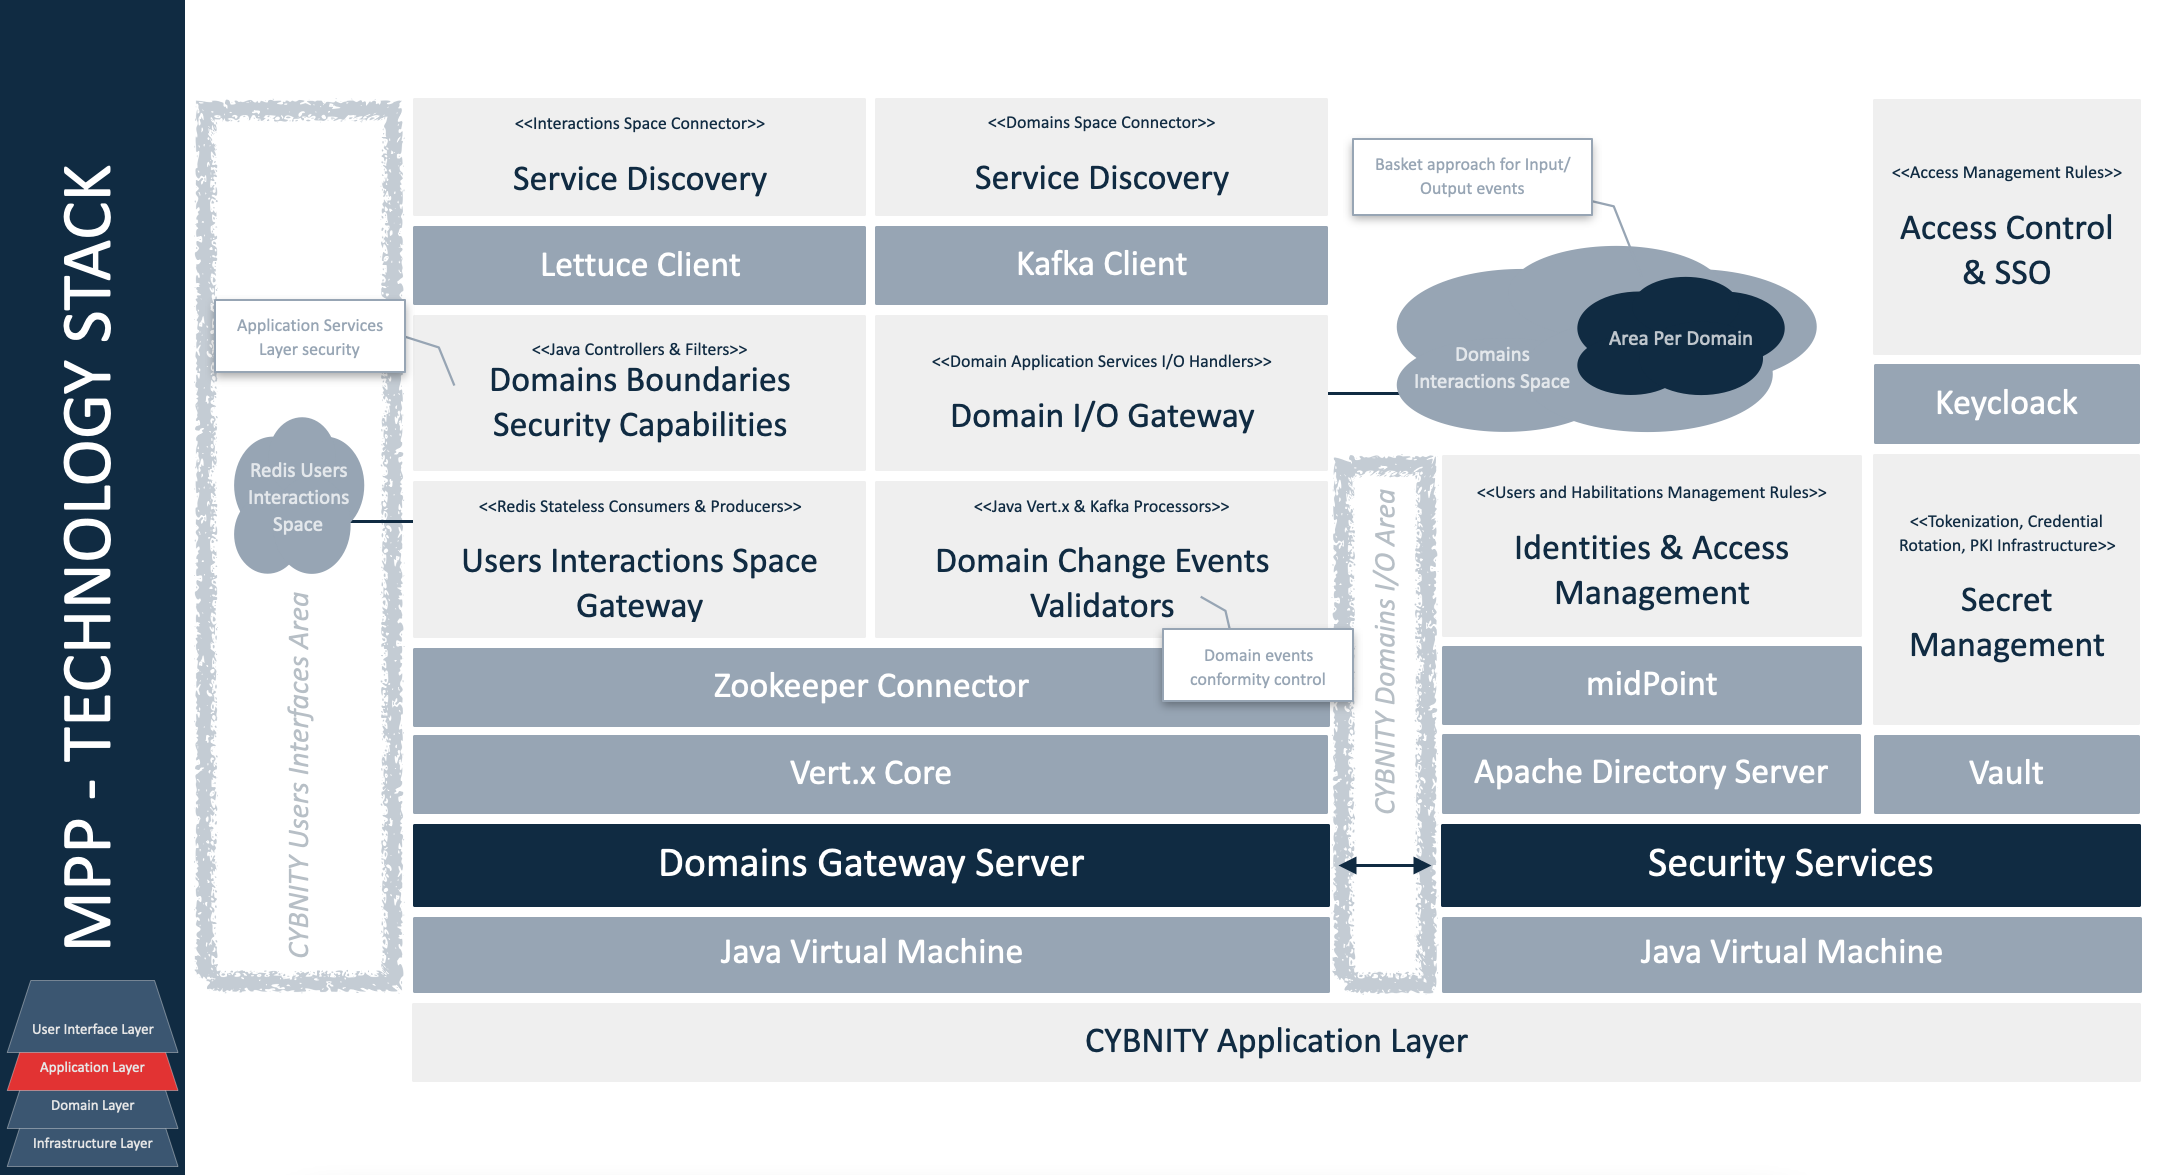
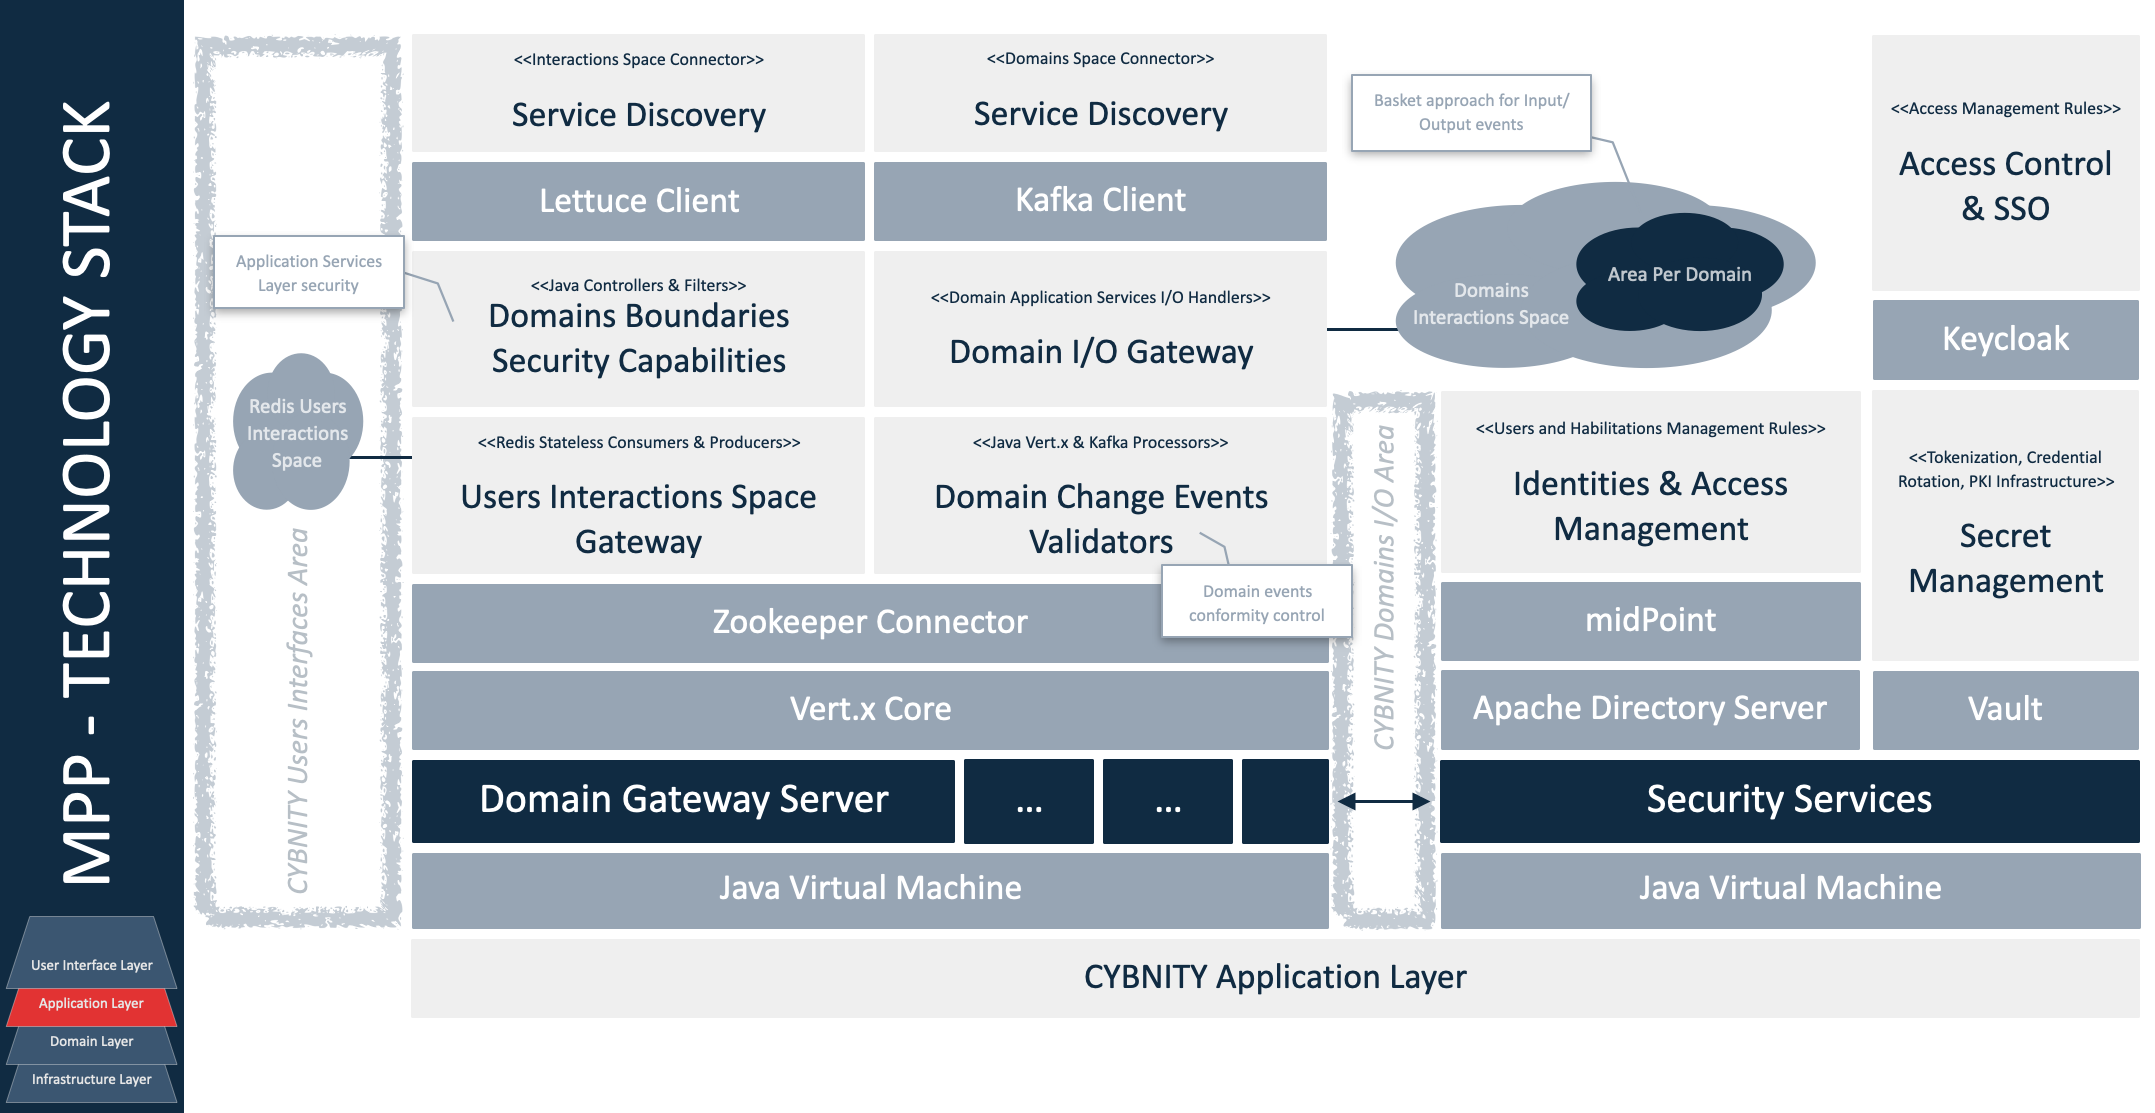
update of UI layer documentation

diff --git a/implementations-line/README.md b/implementations-line/README.md
@@ -39,7 +39,6 @@ The implementation source codes realizes interactive functions provided by **UI 
 Some shared deployable modules (e. endpoints) are also implemented at the UI layer level:
 - [Web Reactive Frontend server](cockpit-foundations/web-reactive-frontend) (ReactJS / Node.js web app)
 - [Reactive Messaging Gateway](cockpit-foundations/reactive-messaging-gateway) (Vert.x Reactive Backend server)
-- Domains Gateway server
 
 ![image](mpp-ui-technology-stack.png)
 
@@ -66,7 +65,9 @@ Each application module dedicated repository manages its source codes structure 
 - [Trial & Training Management module](https://github.com/cybnity/domain-trial-training-mgt)
 - [Vulnerability Management module](https://github.com/cybnity/domain-vulnerability-mgt)
 
-Each application domain aggregates several deployable **Process Modules** distributed into the Application layer as one or several deployable implementation components.
+Each application domain distributed into the Application Layer aggregates deployable implementation components:
+- One **Domain Gateway Module** (messaging gateway as endpoint of the bounded context)
+- Several deployable **Process Modules**
 ![image](mpp-app-technology-stack.png)
 
 ![image](mpp-app-systems-stack.png)
@@ -88,7 +89,7 @@ Several categories of features are implemented through Java libraries regarding:
 - workflow-process: features providing generic workflow and processes management implementation models
 
 ### Domain Layer
-Each application domain can more or less separate its features in micro-services as **Feature Modules** to manage the processing parallelization.
+Each application domain can more or less separate its features in micro-services as deployable **Feature Modules** to manage the processing parallelization via Real-Time Stream Computation Units.
 ![image](mpp-domain-technology-stack.png)
 
 ![image](mpp-domain-systems-stack.png)
